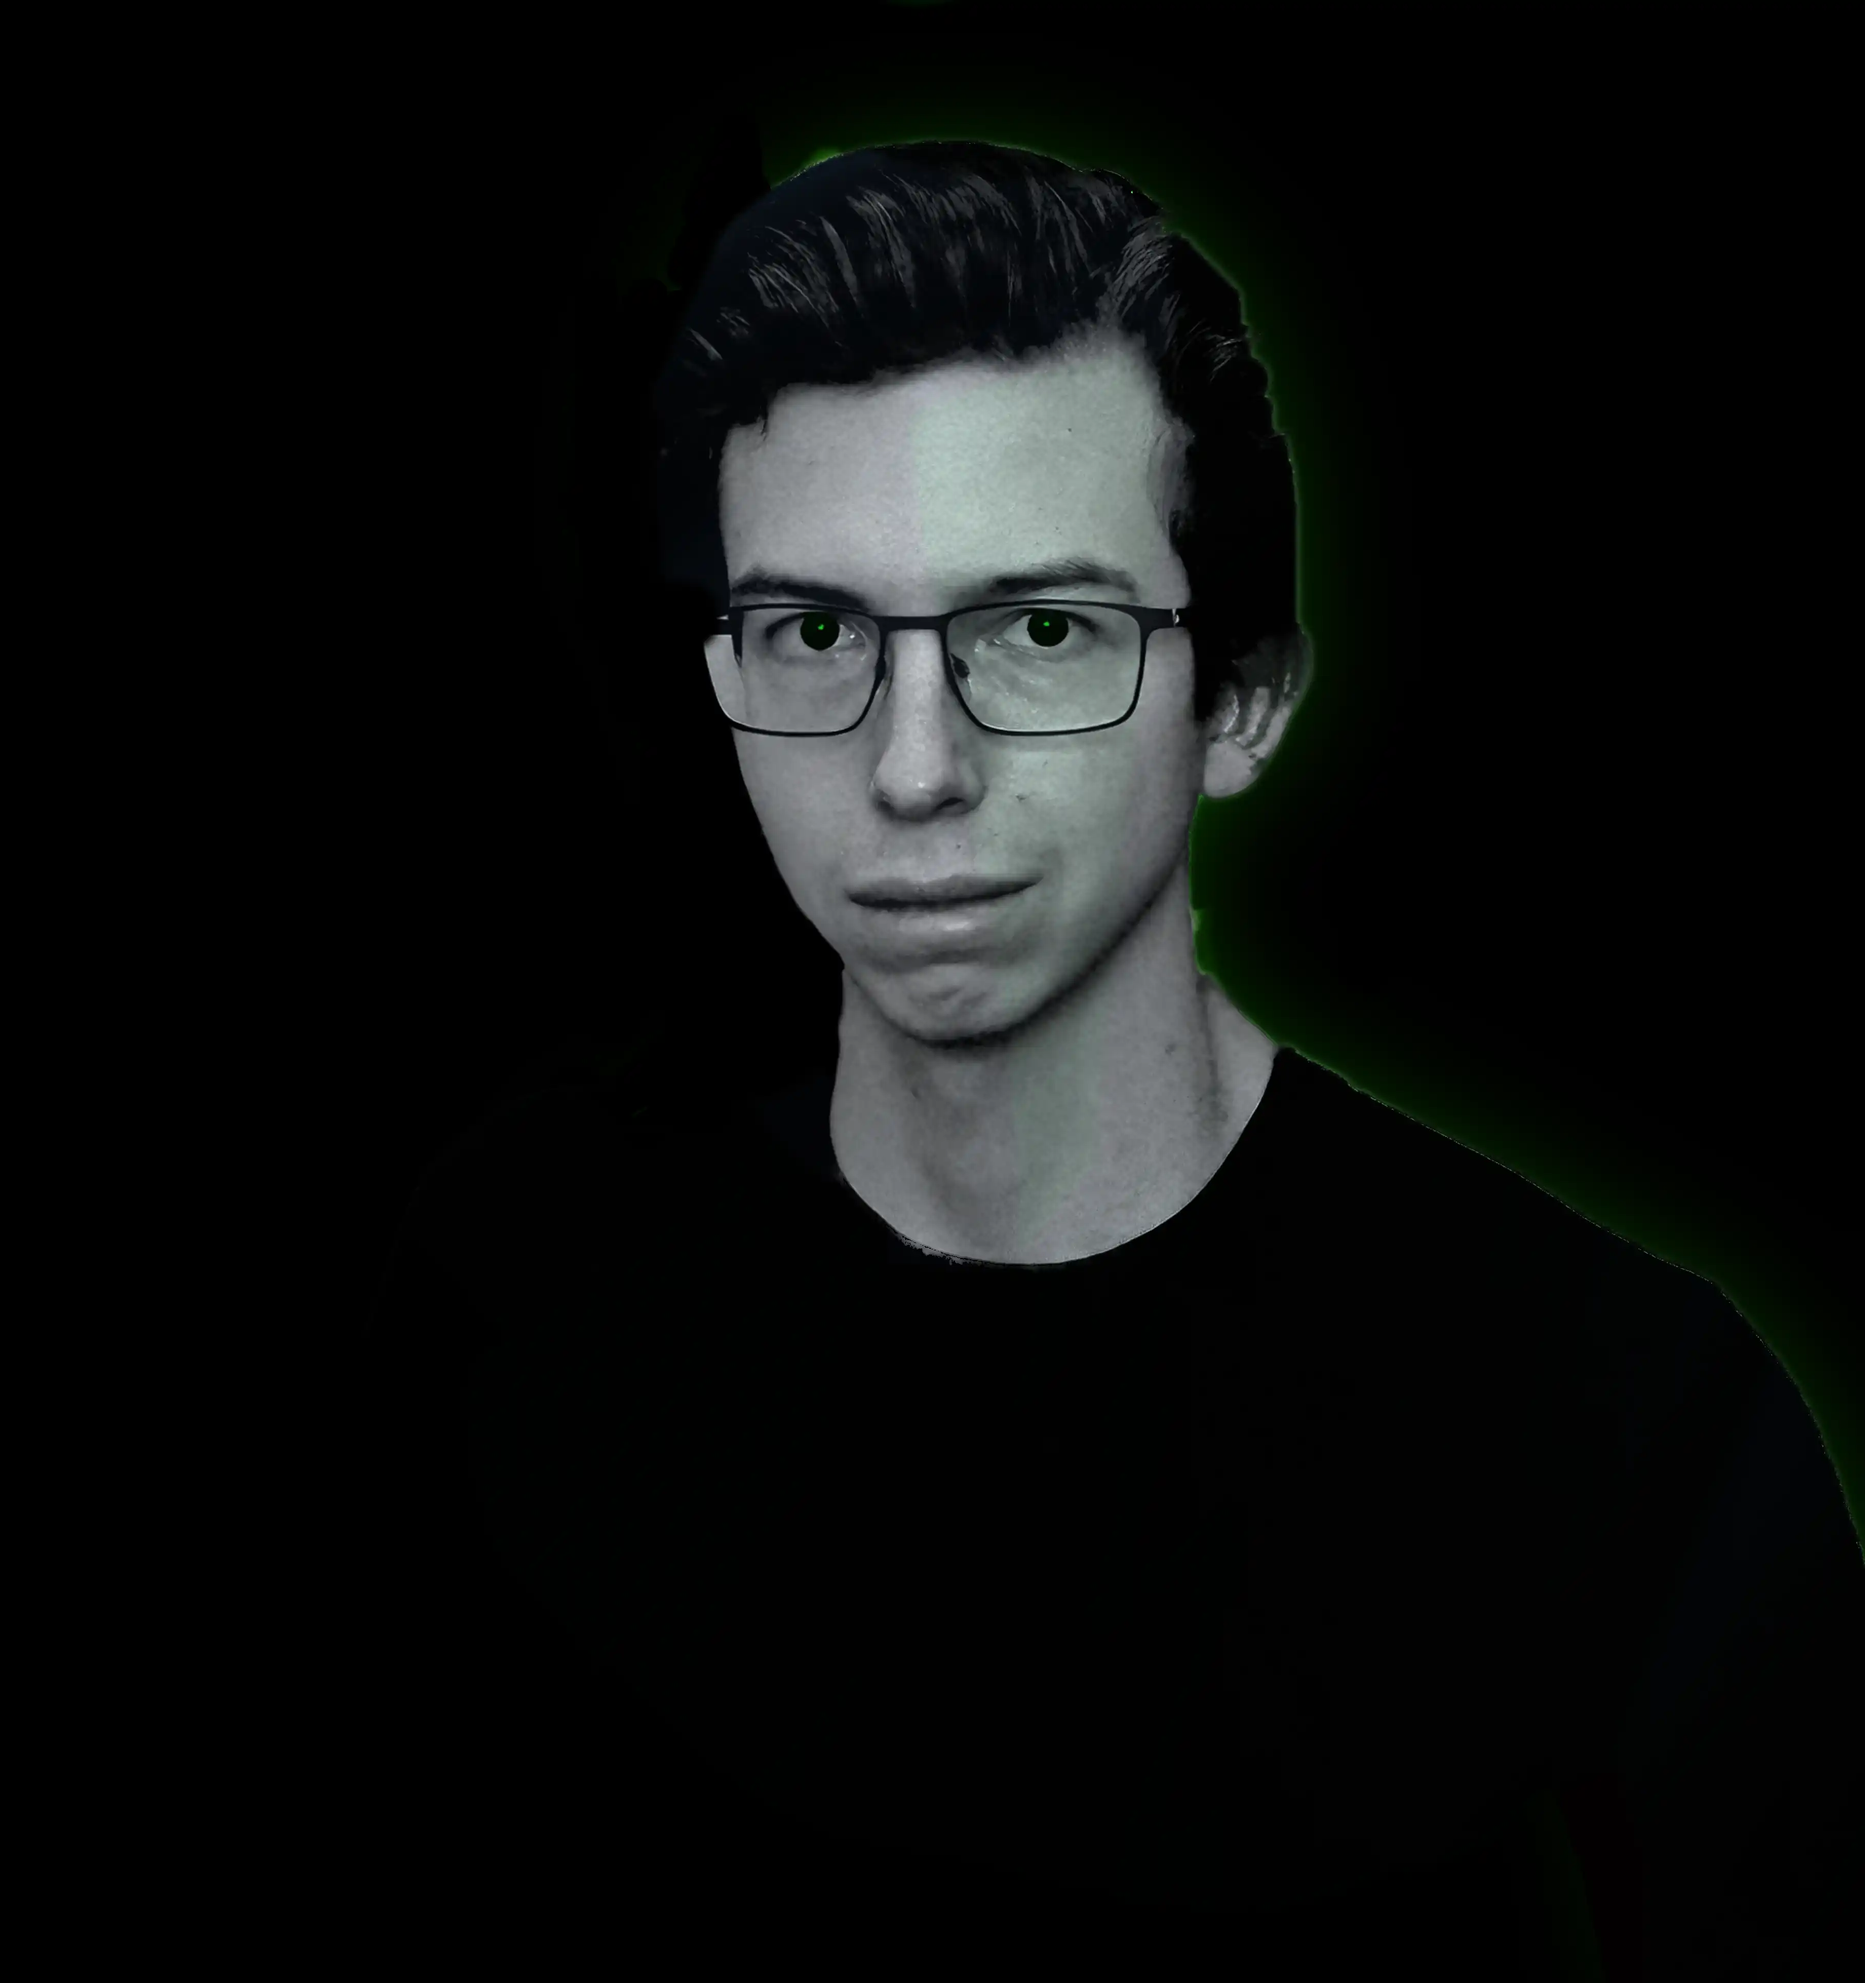
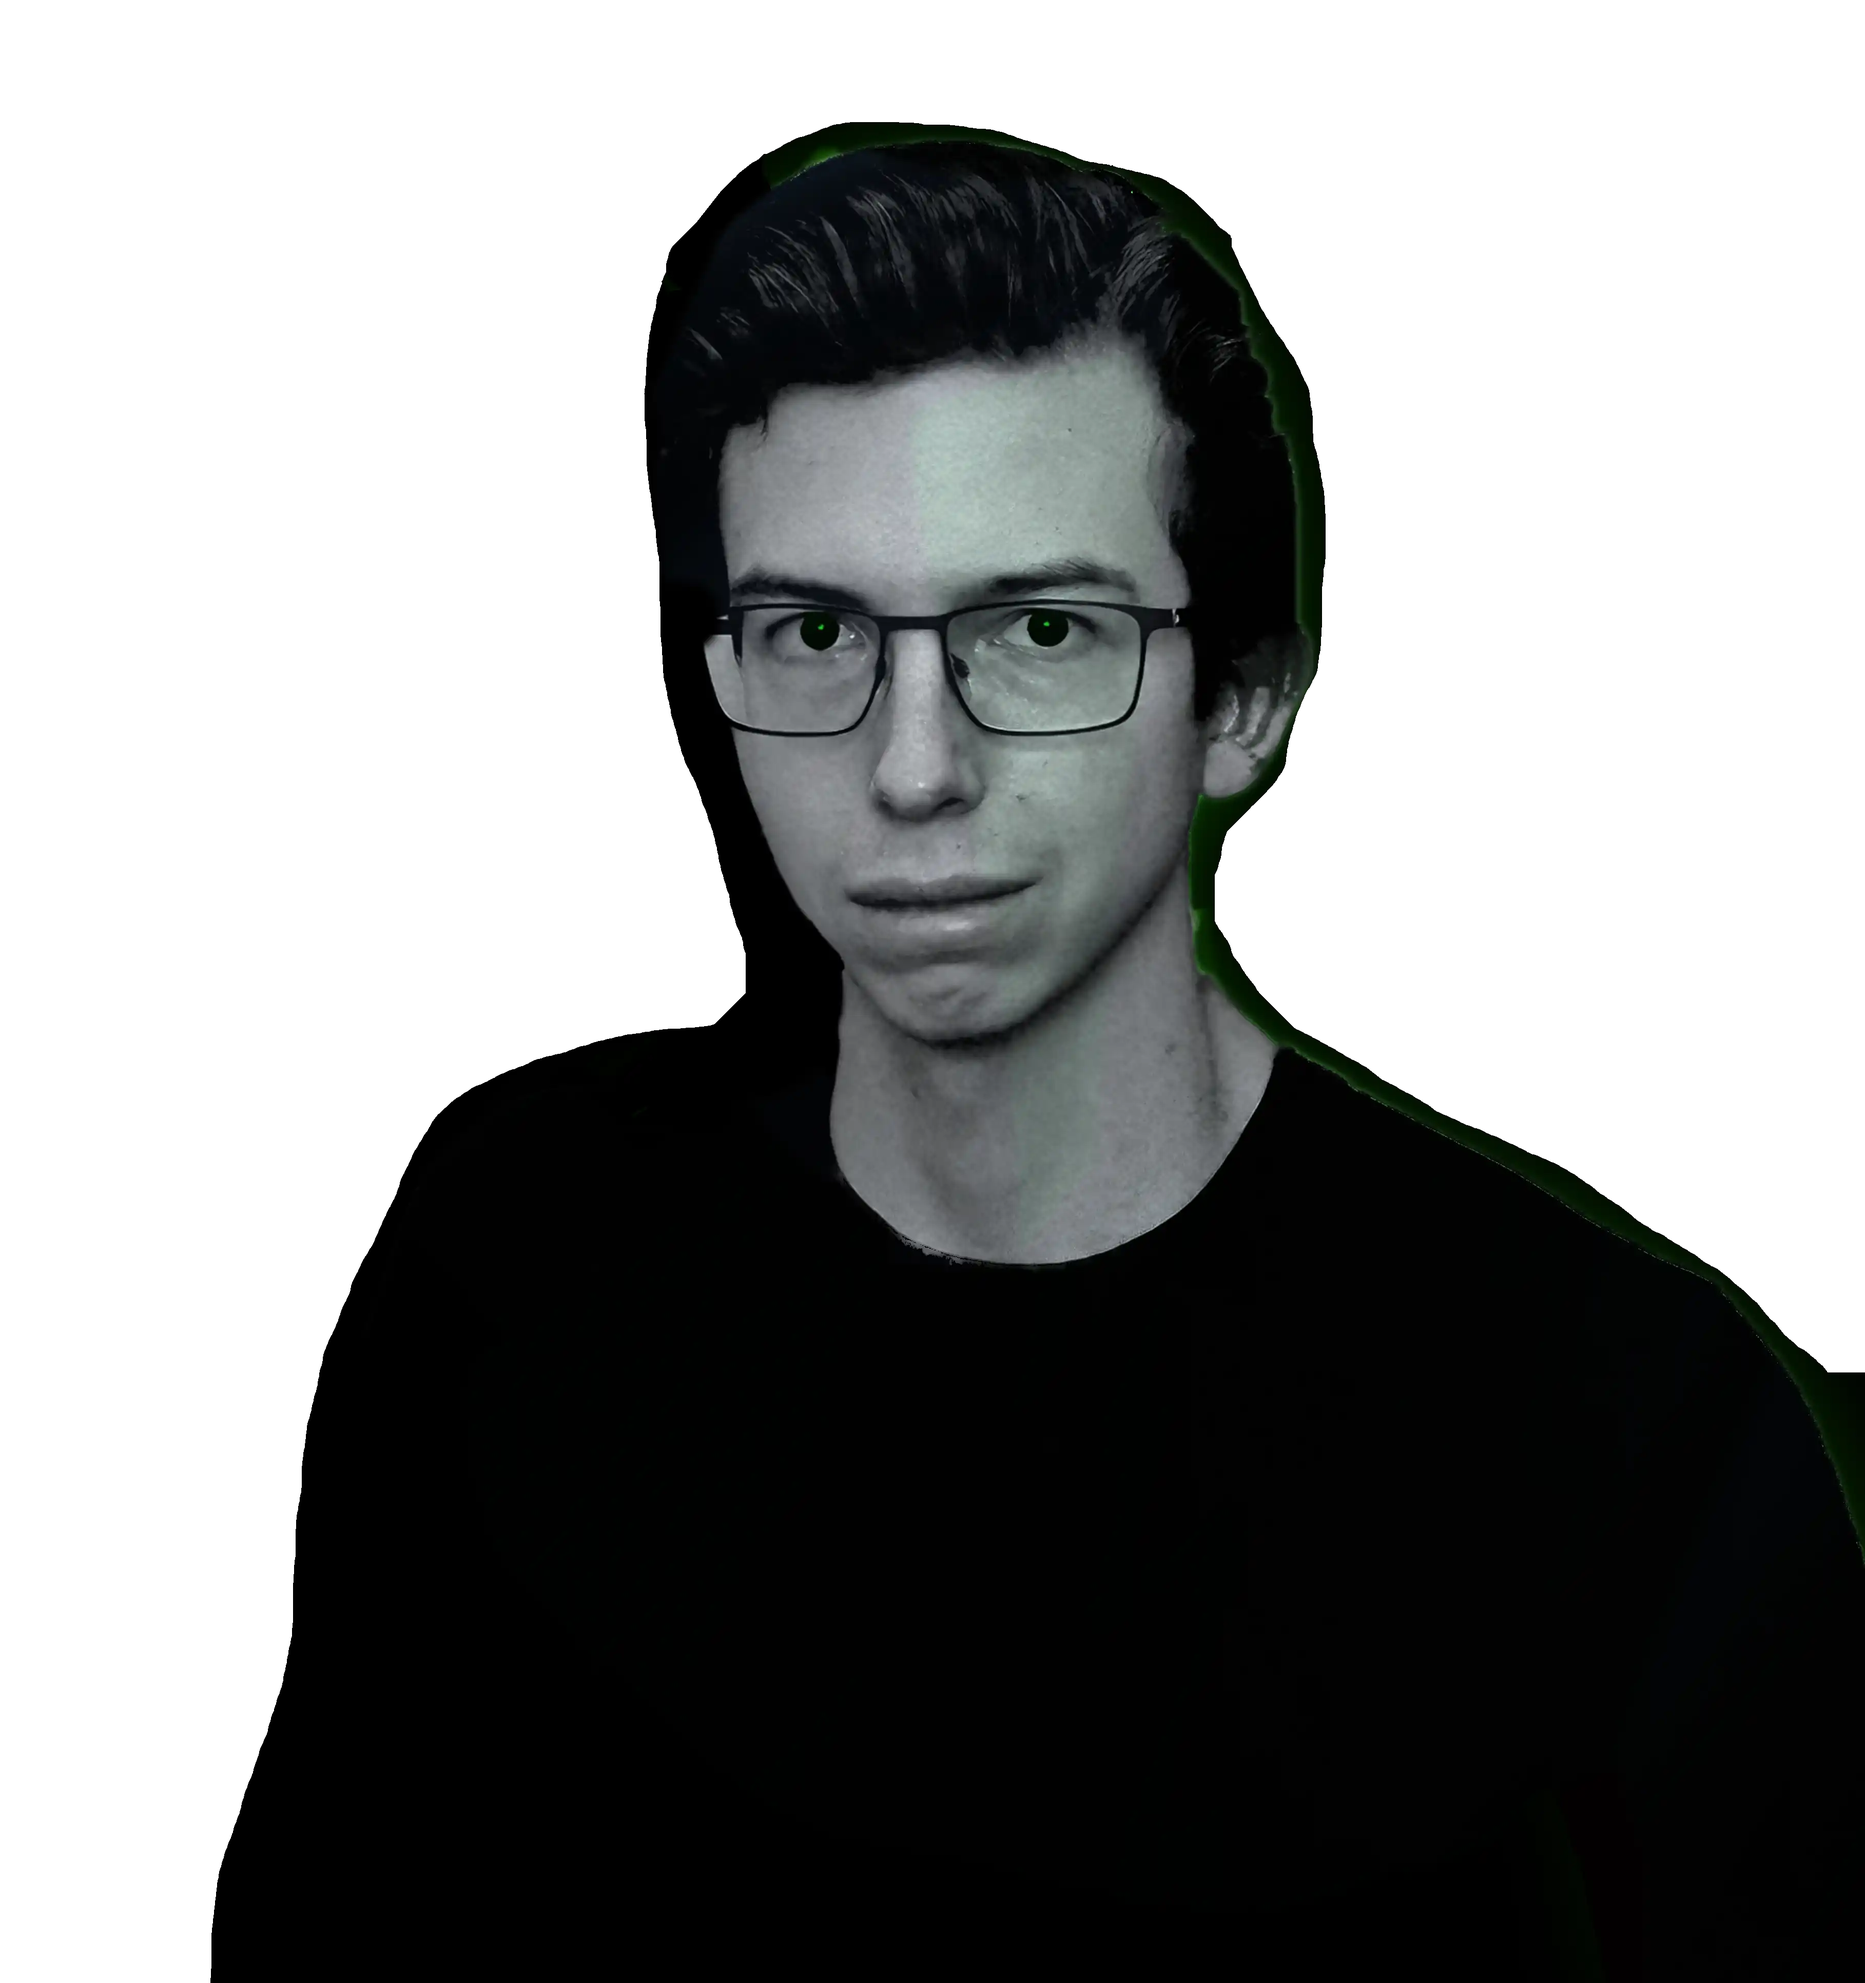
chore: replaced images

diff --git a/src/app/page-sections/page-welcome/page-welcome-hero.component.ts b/src/app/page-sections/page-welcome/page-welcome-hero.component.ts
@@ -1,4 +1,3 @@
-import { NgOptimizedImage } from '@angular/common';
 import {
   afterNextRender,
   ChangeDetectionStrategy,
@@ -11,7 +10,7 @@ import { PageWelcomeHeroSocialsComponent } from './components/page-welcome-hero-
 
 @Component({
   selector: 'app-page-welcome-hero',
-  imports: [NgOptimizedImage, PageWelcomeHeroSocialsComponent],
+  imports: [PageWelcomeHeroSocialsComponent],
   template: `
     <section class="relative min-h-screen overflow-hidden bg-black">
       <!-- name and title -->
@@ -59,10 +58,7 @@ import { PageWelcomeHeroSocialsComponent } from './components/page-welcome-hero-
         class="absolute top-[60px] right-[140px] aspect-square w-full max-w-[750px] overflow-hidden rounded-2xl opacity-0">
         <img
           #heroImage
-          priority
-          ngSrc="me/me-hero-2.webp"
-          width="1000"
-          height="1000"
+          src="me/me-hero.webp"
           class="h-full w-full object-cover"
           alt="Eduard Krivanek" />
       </div>

diff --git a/src/app/page-sections/page-welcome/page-welcome-about-me.component.ts b/src/app/page-sections/page-welcome/page-welcome-about-me.component.ts
@@ -20,7 +20,7 @@ import { ScrollTrigger } from 'gsap/ScrollTrigger';
           <div #imageContainer class="relative h-[700px] overflow-hidden rounded-2xl">
             <img
               #profileImage
-              src="me/me-black-white.png"
+              src="me/me-black-white.webp"
               alt="Eduard Krivanek"
               class="h-full w-full object-cover" />
             <div
